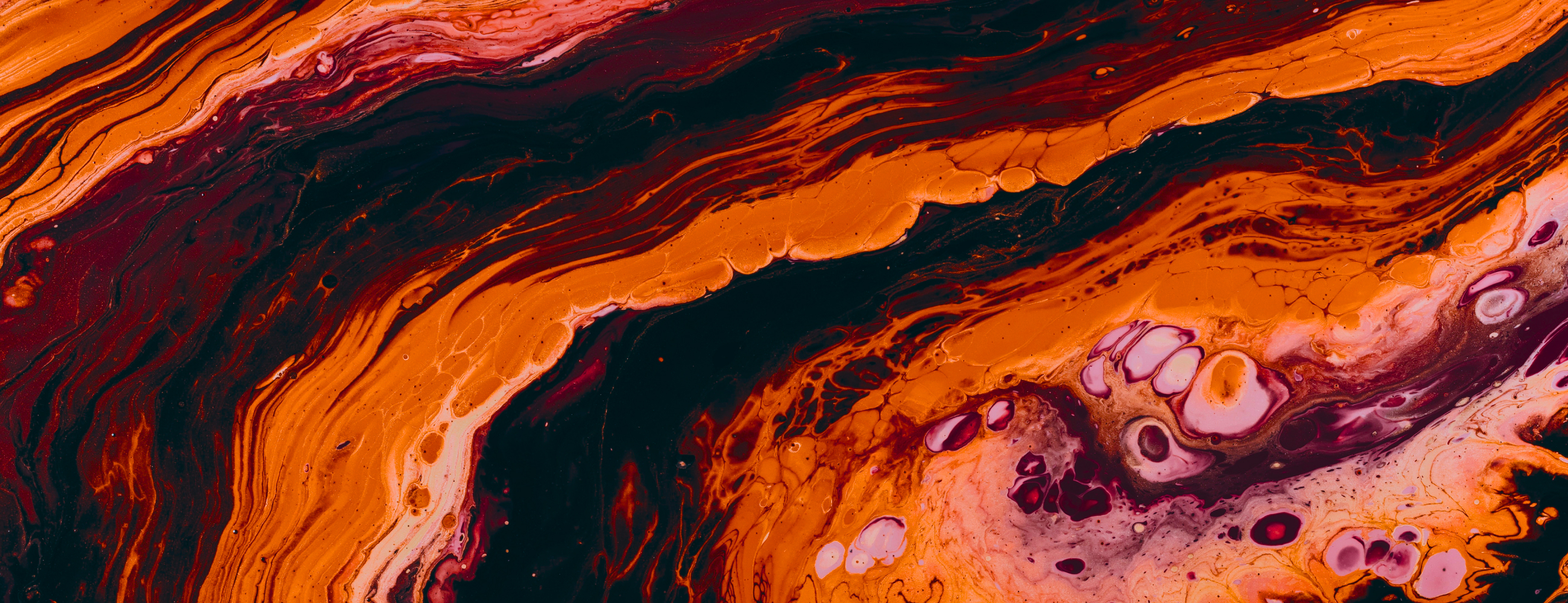
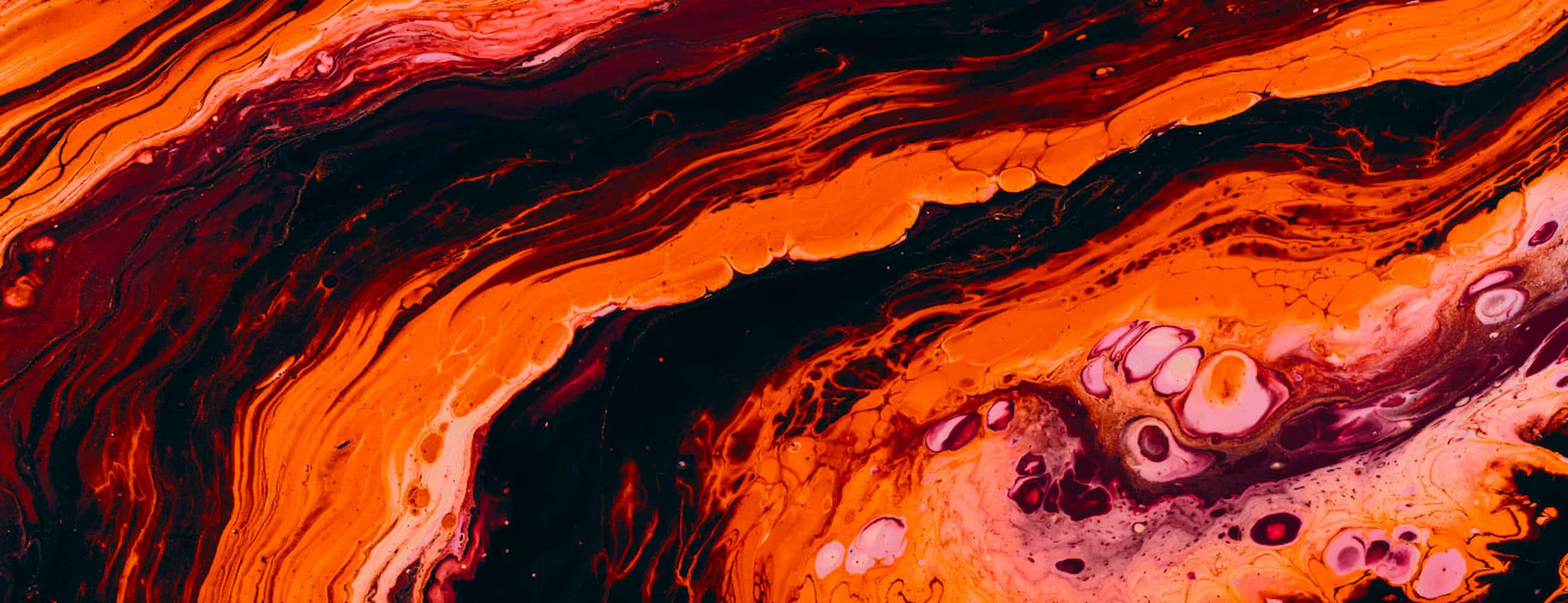
refactor(страница главная): замена изображения 'магма'
для блока маркетинговая стратегия

diff --git a/src/styles/page-home/magma-deco.scss b/src/styles/page-home/magma-deco.scss
@@ -2,14 +2,14 @@
 
 .magma-deco {
   @apply absolute top-0 bottom-0 overflow-hidden lg:relative lg:left-auto lg:right-auto lg:col-start-1 lg:col-end-9 lg:row-start-2 lg:row-end-3;
-  
+
   right: calc(var(--page-gap) * -1);
   left: calc(var(--page-gap) * -1);
-  
+
   //noinspection CssInvalidMediaFeature
   @media (--lg) {
     @include grid(7, 1, 1fr, auto);
-  
+
     align-items: center;
     margin-left: calc(var(--page-gap) * -1);
     padding-left: var(--page-gap);
@@ -19,34 +19,37 @@
 .magma-deco__img,
 .magma-deco__pattern {
   @apply absolute top-0 left-0 w-full;
-  
 }
 
 .magma-deco__img {
   @apply h-3/2 bg-no-repeat bg-right-top;
 
   background-size: auto 100%;
-  
-  background-image: image-set(url("/images/home/magma.jpg") 1x, url("/images/home/magma@2x.jpg") 2x);
-  
+
+  background-image: image-set(
+    url("/images/home/magma.jpg") 1x,
+    url("/images/home/magma@2x.jpg") 2x
+  );
+
   //noinspection CssInvalidMediaFeature
   @media (--md) {
-    background-image: image-set(url("/images/home/magma-md.jpg") 1x,
-            url("/images/home/magma-md@2x.jpg") 2x);
+    background-image: url("/images/home/magma-md@2x.jpg");
   }
-  
+
   //noinspection CssInvalidMediaFeature
   @media (--lg) {
-    background-image: image-set(url("/images/home/magma-lg.jpg") 1x,
-            url("/images/home/magma-lg@2x.jpg") 2x);
+    background-image: image-set(
+      url("/images/home/magma-lg.jpg") 1x,
+      url("/images/home/magma-lg@2x.jpg") 2x
+    );
   }
 }
 
 .magma-deco__pattern {
   @apply h-full bg-center opacity-30 lg:opacity-70;
-  
+
   background-size: 128px;
-  
+
   //noinspection CssInvalidMediaFeature
   @media (--lg) {
     background-size: 256px;
